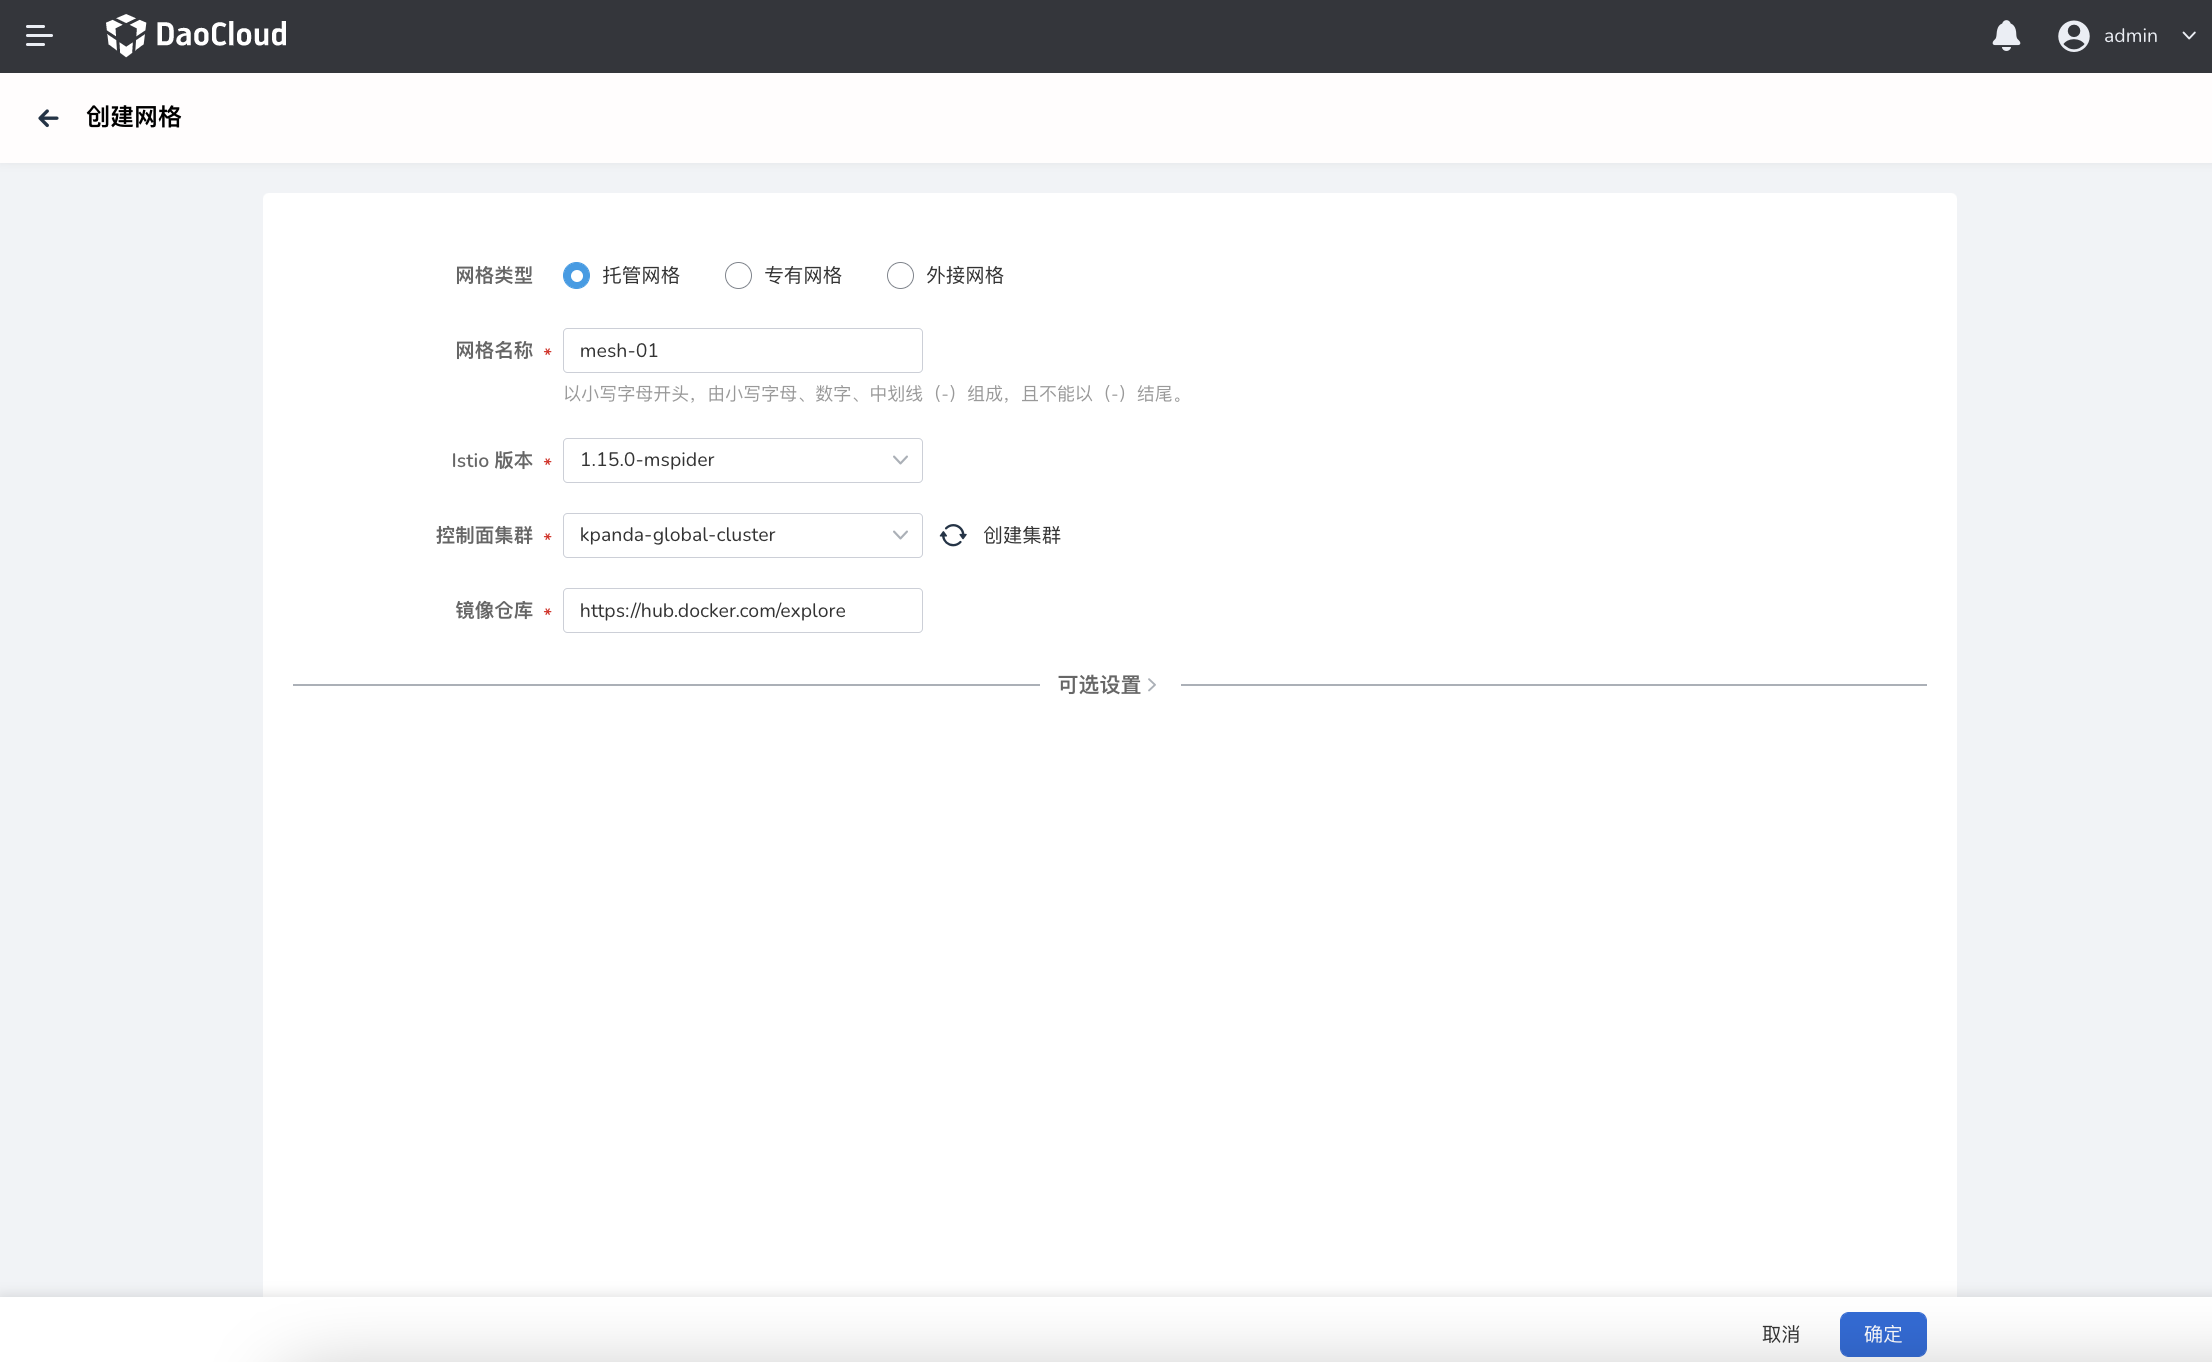
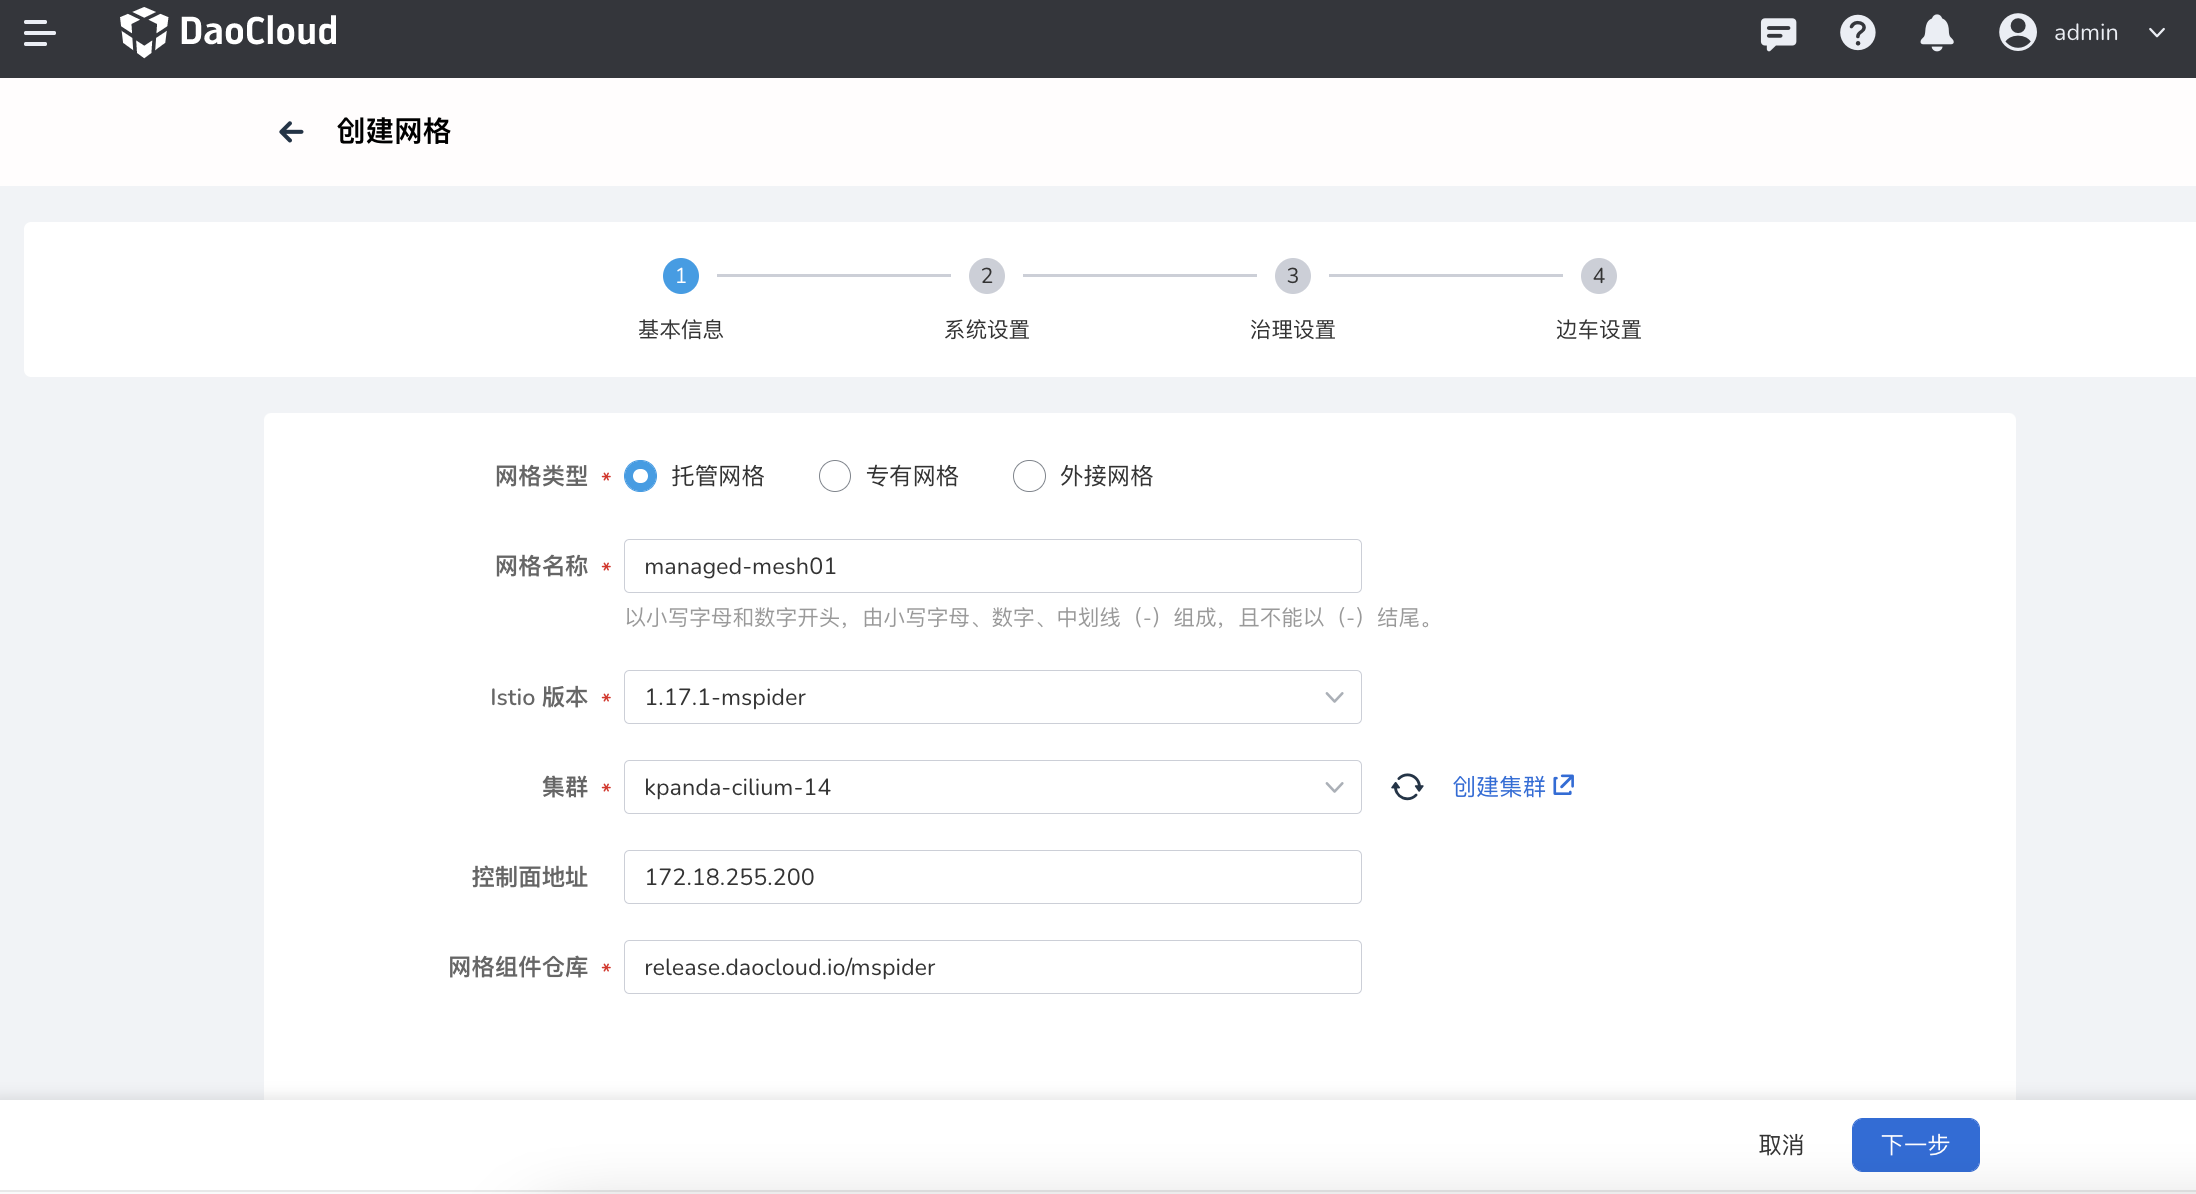
update mspider create-mesh pages

diff --git a/docs/zh/docs/mspider/user-guide/service-mesh/README.md b/docs/zh/docs/mspider/user-guide/service-mesh/README.md
@@ -1,40 +1,44 @@
 # 创建托管/专有网格
 
-DCE 5.0 服务网格支持创建托管网格、专有网格、外接网格。创建托管网格/专有网格的步骤如下：
+DCE 5.0 服务网格支持 3 种网格：
 
-!!! info
+- **托管网格** 完全托管在 DCE 5.0 服务网格内。这种网格将核心控制面组件从工作集群中分离，控制面可以部署到一个独立的集群中，能够对同一网格中的多集群服务进行统一治理。
+- **专有网格** 采用 Istio 传统结构，仅支持一个集群，集群内设有专门的控制面。
+- **外接网格** 指的是可以将企业现成的网格接入到 DCE 5.0 服务网格中进行统一管理。参见[创建外接网格](integrate-mesh.md)。
 
-    - 托管网格指的是将网格核心控制面组件从工作集群的概念中分离，可以部署到一个独立的控制面集群中，减轻用户运维负担和资源消耗，并且用户可以对位于同一网格中的多集群服务进行统一治理。
-    - 专有与托管网格的最大区别是：专有网格是单集群模式。
-    - 有关如何接入外接网格的信息，请参见[创建外接网格](integrate-mesh.md)。
+创建托管网格/专有网格的步骤如下：
 
 1. 在服务网格列表页面的右上角，点击`创建网格`。
 
     ![创建网格](../../images/servicemesh01.png)
 
-2. 选择`托管网格`或`专有网格`，填写网格配置信息。
+1. 选择`托管网格`或`专有网格`，填写基本信息后点击`下一步`。
 
-    - 网格名称：以小写字母开头，由小写字母、数字、中划线(-)组成，且不能以中划线(-)结尾
-    - 别名：用于提高易用性和网格识别度，可输入字母、数字、中文及其他符号，60 个字符以内
-    - Istio 版本：当前系统可以支持的 Istio 版本号，选择一个作为当前创建的网格的 Istio 版本，如果是托管网格，那么所有被纳管的集群的 Istio 都将使用此版本。
-    - 控制面集群：用于运行网格管理面的集群，列表包含当前网格平台可以访问且状态正常的集群。该项附带一个刷新图标和一个`创建集群`按钮。点击`创建集群`将跳转至`容器管理平台`创建新集群，创建完成后返回本页面，点击刷新图标更新列表。
-    - 镜像仓库：输入包含数据面组件镜像的镜像仓库地址，如果集群可以访问公网，那么可以填写官方镜像地址：`release.daocloud.io/mspider`，私有环境请自行上传镜像后填写实际地址。
+    - 网格名称：以小写字母开头，由小写字母、数字、中划线 (-) 组成，且不能以中划线 (-) 结尾
+    - Istio 版本：如果是托管网格，所有被纳管集群的 Istio 都将使用此版本。
+    - 控制面集群：用于运行网格管理面的集群，附带一个刷新图标和`创建集群`按钮。点击`创建集群`将跳转至`容器管理`平台创建新集群，创建完成后返回本页面，点击刷新图标可更新集群列表。
+    - 控制面地址：输入控制面的 IP 地址。
+    - 网格组件仓库：输入包含数据面组件镜像的镜像仓库地址，例如 `release.daocloud.io/mspider`。
   
-    ![基本配置](../../images/create-mesh-config.png)
+    ![基本信息](../../images/create-mesh-config.png)
 
-3. 点击`确定`按钮，完成网格创建。系统自动返回网格列表，可以查看和管理新增的网格。
+1. 系统设置。配置是否开启可观测性，设置网格规模后点击`下一步`。
+
+    ![系统设置](../../images/mesh-sys-set.png)
+
+1. 治理设置。设置出站流量策略、位置感知负载均衡、请求重试等。
+
+    ![治理设置](../../images/gov-set.png)
+
+1. 边车设置。设置全局边车、资源限制、日志后点击`确定`。
+
+    ![边车设置](../../images/create-sidecar-set.png)
+
+1. 自动返回网格列表，新创建的网格默认位于第一个，一段时间后状态将从`创建中`变为`运行中`。点击右侧的 `...` 可以编辑网格基本信息、添加集群等。
+
+    ![网格列表](../../images/create-list.png)
 
 !!! info
 
     创建托管网格后，还未接入任何托管的集群，此时网格处于`未就绪`状态。
     用户可以[添加集群](../cluster-management/README.md)，等待集群接入完成后，选择需要服务治理的集群接入。
-
-## 可选设置
-
-正确填写基本配置后就可以成功创建基本的托管网格。如需使用高级功能，可以点击`可选设置`填写可选配置。
-
-- 网格规模：包含四个规模选项，提供了与所选规模相关的资源建议信息
-- 边车注入策略：可以启用/禁用网格层面的边车自动注入策略，启用后所有接入集群将自动注入边车
-- 边车资源设置：对网格下所有集群的注入边车进行资源限制，可作为网格下的默认边车资源值。各层级的边车资源限制规则执行优先级为：工作负载级资源限制 -> 集群级资源限制 - > 网格资源限制
-
-![可选设置](../../images/create-mesh-optional.png)

diff --git a/docs/zh/docs/mspider/user-guide/service-mesh/integrate-mesh.md b/docs/zh/docs/mspider/user-guide/service-mesh/integrate-mesh.md
@@ -5,6 +5,8 @@ hide:
 
 # 创建外接网格
 
+外接网格指的是可以将现成的网格接入到 DCE 5.0 服务网格中进行统一管理。
+
 1. 在服务网格列表页面的右上角，点击`创建网格`。
 
     ![创建网格](../../images/servicemesh01.png)
